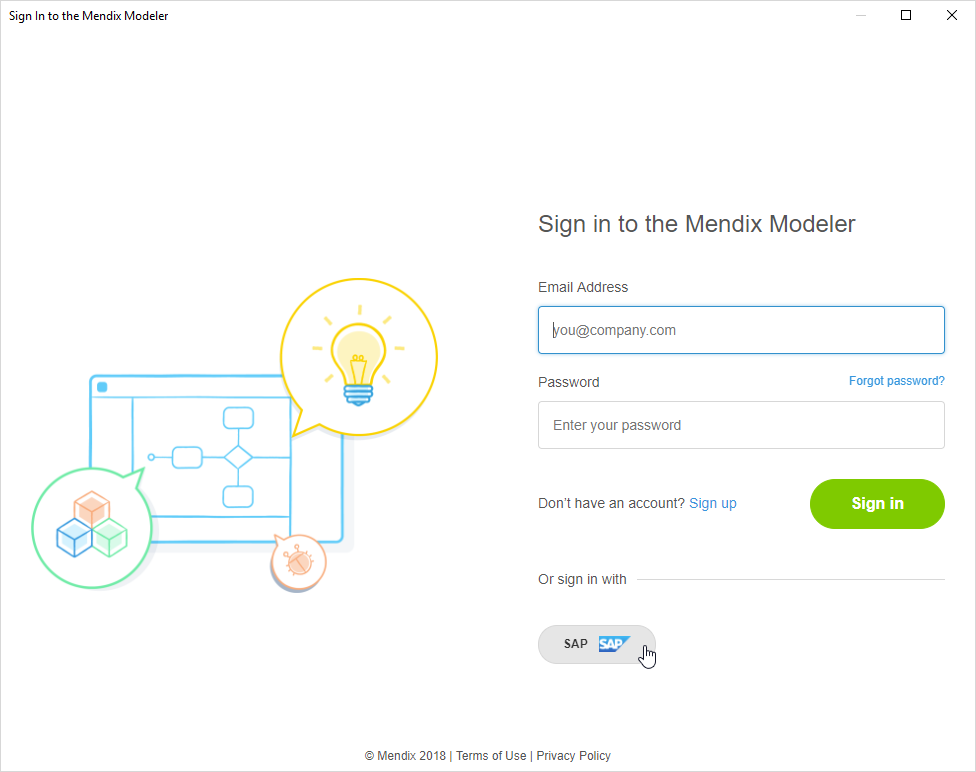
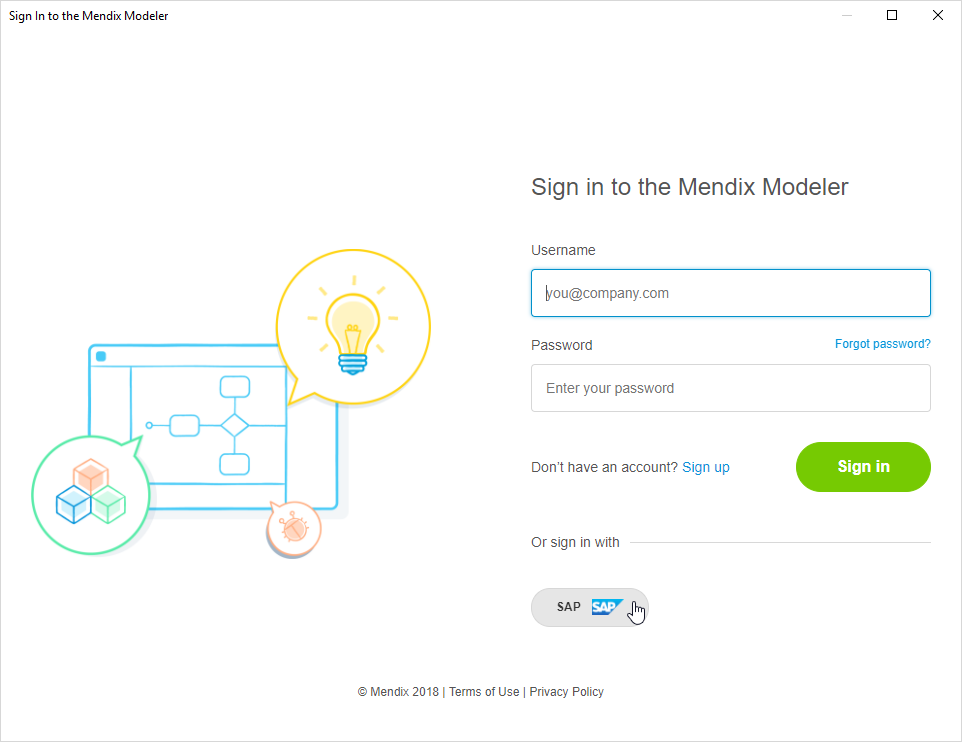
SAP SSO

diff --git a/content/refguide/sap/sap-single-sign-on.md b/content/refguide/sap/sap-single-sign-on.md
@@ -9,7 +9,7 @@ tags: ["SAP", "SSO", "Single Sign-On"]
 
 Mendix has Single Sign-On for SAP users (*for some SAP regions*). This means that you are authenticated to Mendix using SAP credentials.
 
-One implication of this is that you must use the same username (email address) for both SAP and Mendix.
+One implication of this is that you must use the same username (in the form of an email address) for both SAP and Mendix.
 
 ## 2 Logging on to Mendix Using SSO
 
@@ -27,7 +27,7 @@ Your password can be different in your Mendix credentials and your SAP credentia
 
 ### 2.1 Logging in Using Mendix Credentials
 
-You can enter your **Email Address** and Mendix **Password** and click **Sign in**. This will authenticate you with the credentials held by Mendix.
+You can enter your **Username** and Mendix **Password** and click **Sign in**. This will authenticate you with the credentials held by Mendix.
 
 ### 2.2 Logging in Using SAP Credentials
 
@@ -61,15 +61,15 @@ Enter the correct credentials and you will be signed in to continue the creation
 
 ![](attachments/sap-single-sign-on/go-back.png)
 
-This error happens when working with SAP environments from within the Mendix Developer Portal. As described on the error page, it occurs when you are logged in on the Mendix platform under one email address, but logged in to the SAP region in which you are working under a different email address.
+This error happens when working with SAP environments from within the Mendix Developer Portal. As described on the error page, it occurs when you are logged in on the Mendix platform under one username, but logged in to the SAP region in which you are working under a different username.
 
 When you click **Go back to where you originally came from**, you will see a second error message which you will have to clear by clicking **OK**.
 
 ![](attachments/sap-single-sign-on/server-error.png)
 
-There are three possible solutions, depending on why the email addresses are different. Some of these can be changed within Mendix itself, but you may also need to make changes directly on the SAP site.
+There are three possible solutions, depending on why the usernames are different. Some of these can be changed within Mendix itself, but you may also need to make changes directly on the SAP site.
 
-### 4.1 Mendix email address is correct, but SAP email address is incorrect
+### 4.1 Mendix username is correct, but SAP username is incorrect
 
 In this case you cannot resolve the issue from within Mendix. You will continue to get the error each time you try to link your accounts.
 
@@ -88,7 +88,7 @@ Select the down arrow next to your username, and this will give the option to **
 
 ![](attachments/sap-single-sign-on/where-to.png)
 
-Click **Sign Out** and you can then return to Mendix and login again with an account which has the same email address as the one you use for Mendix.
+Click **Sign Out** and you can then return to Mendix and login again with an account which has the same email address as the username you use for Mendix.
 
 ### 4.2. You are using the wrong region
 

diff --git a/content/refguide/charts-configuration.md b/content/refguide/charts-configuration.md
@@ -42,9 +42,7 @@ Add series and configure their properties, each series represents a data set. Fo
 
     In this case, new series can be added by clicking the **Series > New** button in the **Chart properties** tab.
 
-    {{% alert type="info" %}}The charts described in this guide do not support **Dynamic series** (that is, changing the number of series on a multiple-series chart dynamically at runtime).
-
-    The basic charts only support a fixed number of series which is set in the modeler. You need to use *Any chart* to set up dynamic series. See [Any charts](charts-any-configuration).{{% /alert %}}
+    {{% alert type="info" %}}The charts described in this guide do not support **Dynamic series** (that is, changing the number of series on a multiple-series chart dynamically at runtime).<br /><br />The basic charts only support a fixed number of series which is set in the modeler. You need to use *Any chart* to set up dynamic series. See [Any charts](charts-any-configuration).{{% /alert %}}
 
 1. Data source<a name="data-source"></a>
 
